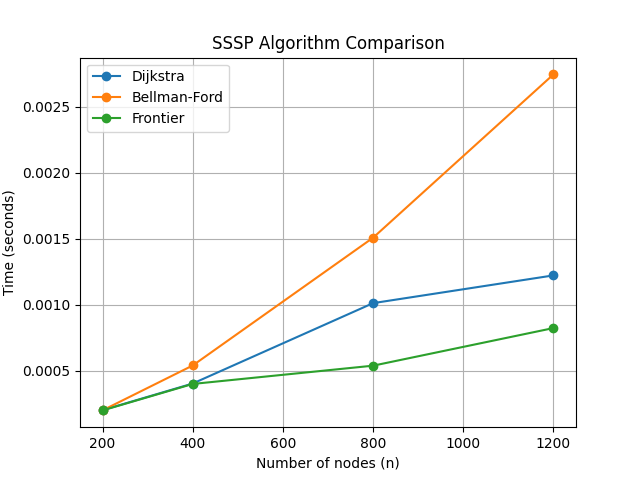
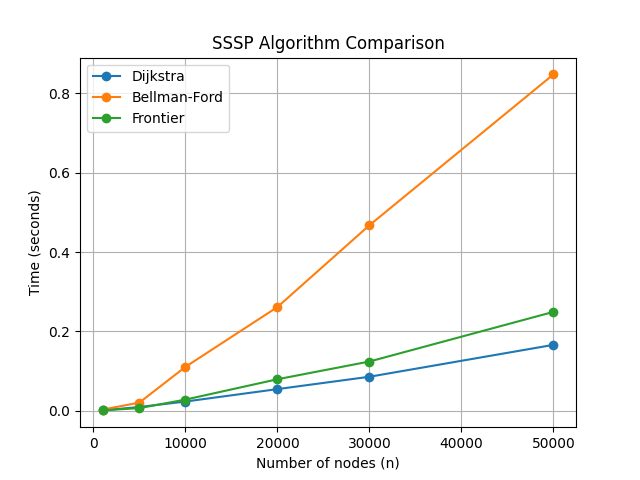
update: add benchmark + plots + fixes

diff --git a/plot_result.py b/plot_result.py
@@ -3,7 +3,7 @@ from benchmark import benchmark
 
 
 def plot():
-    sizes = [200, 400, 800, 1200]
+    sizes = [1000, 5000, 10000, 20000, 30000, 50000]
 
     d_times, bf_times, f_times = [], [], []
 

diff --git a/run_experiment.py b/run_experiment.py
@@ -1,7 +1,7 @@
 from benchmark import benchmark
 
 def main():
-    sizes = [200, 400, 800, 1200]
+    sizes = [1000, 5000, 10000, 20000, 30000, 50000]
 
     all_results = {}
 
